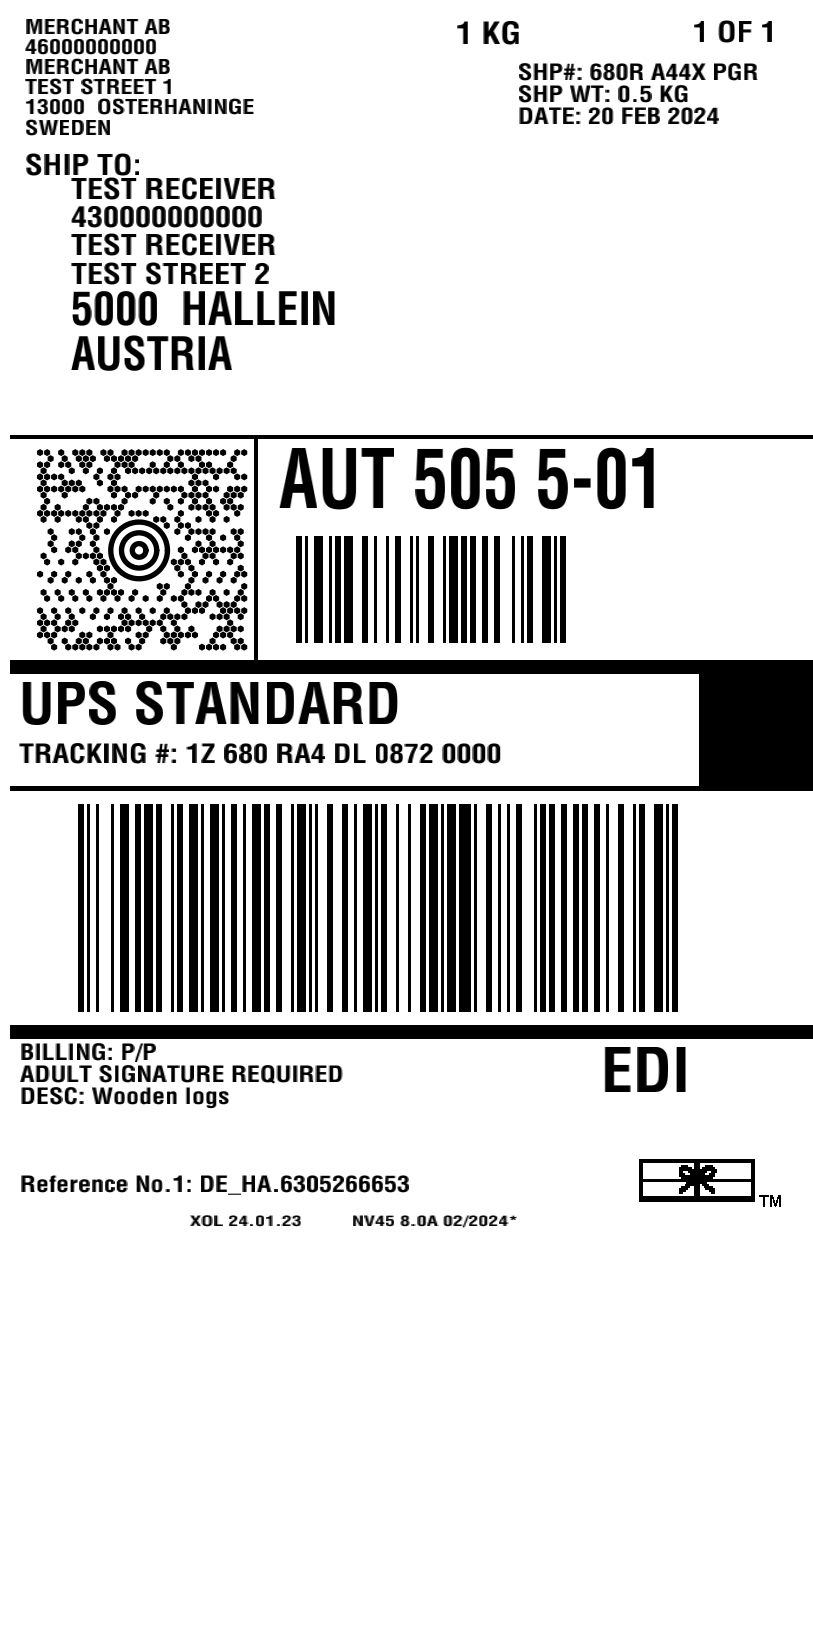
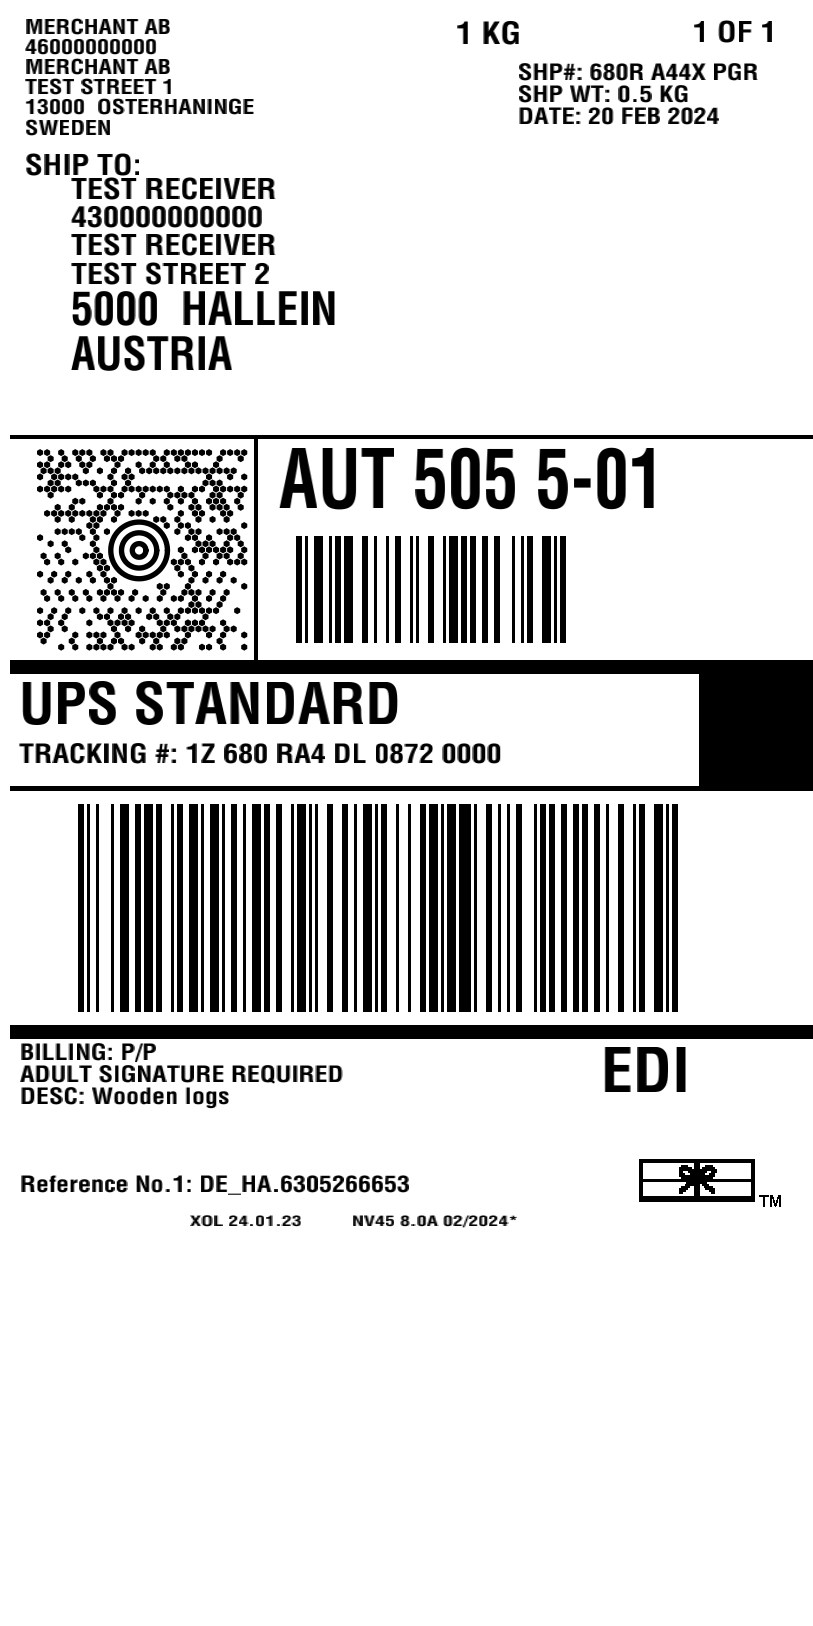
Bump maxicode lib

Changed region(s): [[0.0308, 0.2768, 0.3075, 0.3998]]

diff --git a/elements/maxicode.go b/elements/maxicode.go
@@ -28,7 +28,7 @@ func (barcode *MaxicodeWithData) GetInputData() (string, error) {
 	const codeHeader = "[)>" + RS + "01" + GS
 	const headerLen = 9
 
-	data := strings.ReplaceAll(barcode.Data, "\r", "")
+	data := barcode.Data
 	headerPos := strings.Index(data, codeHeader)
 
 	if headerPos < 0 || len(data) < headerPos+headerLen {
